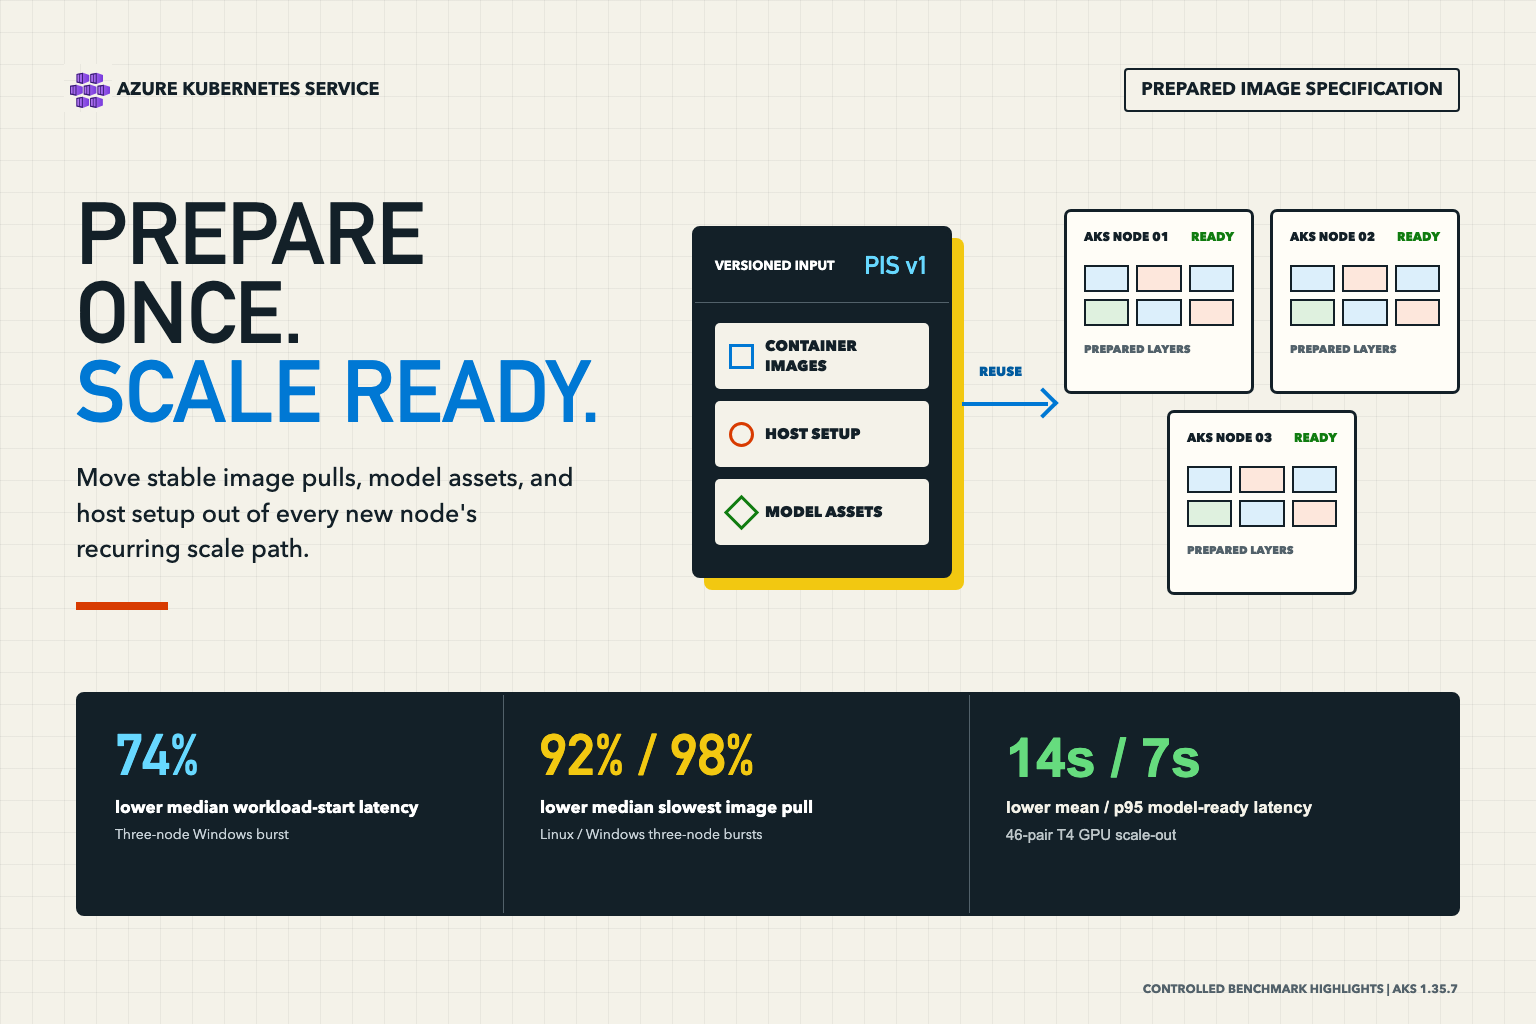
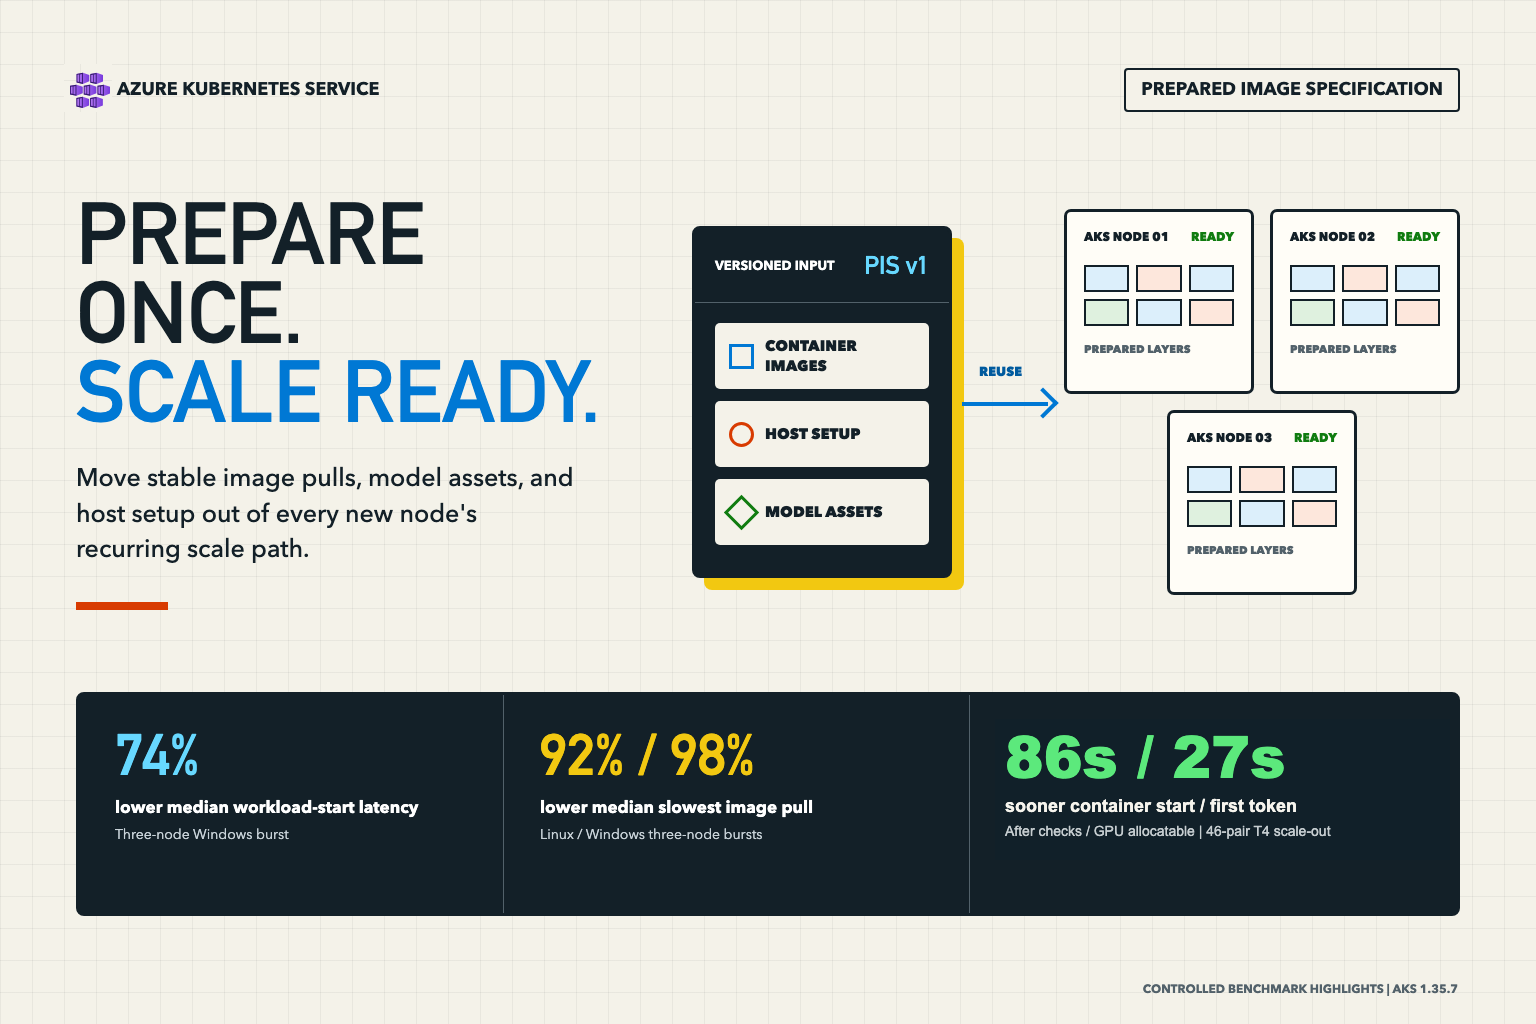
docs(blog): sharpen PIS benchmark highlights

Changed region(s): [[0.6562, 0.7188, 0.875, 0.8438]]

diff --git a/website/blog/2026-09-02-reducing-aks-cold-starts-with-prepared-image-specification/index.md b/website/blog/2026-09-02-reducing-aks-cold-starts-with-prepared-image-specification/index.md
@@ -47,33 +47,25 @@ The table separates the customer-visible outcomes. Reductions mean the PIS-backe
 
 | Scenario | Customer-visible outcome | Observed result |
 | --- | --- | ---: |
-| Add three Windows nodes | All three workloads started on distinct new nodes | **74% at median; 78% at p90** |
-| Add one Windows node | Workload started on the new node | **27% at median; 77% at p90** |
-| Add three Linux nodes | All three workloads started on distinct new nodes | **4% at median; 24% at p90** |
-| Large image pulls during a three-node burst | Slowest new-node pull completed | **92% at Linux median; 98% at Windows median** |
-| Install a pinned portable runtime | Runtime verified and workload started | **10% at Linux median; 34% at Windows median** |
-| Prepare a large dependency bundle | Dependencies verified and workload started | **20% at Linux median; 5% at Windows median** |
-| Serve a model on a T4 GPU node | Model healthy and first token returned | **14 seconds sooner on average for both; at p95, 503 vs. 510 seconds to model ready and 537 vs. 543 seconds to first token (PIS vs. non-PIS)** |
-| Reuse prepared assets after the GPU is allocatable | First token returned; container started after preparation checks | **27 seconds sooner to first token on average; container start was 86 seconds sooner on average** |
-| Apply a small Linux certificate authority (CA) and policy setup | Setup verified and workload started | **14% slower at median; tail latency favored PIS** |
+| Add three Windows nodes | All three workloads started on distinct new nodes | **74% at median**<br />**78% at p90** |
+| Add one Windows node | Workload started on the new node | **27% at median**<br />**77% at p90** |
+| Add three Linux nodes | All three workloads started on distinct new nodes | **4% at median**<br />**24% at p90** |
+| Large image pulls during a three-node burst | Slowest new-node pull completed | **92% at Linux median**<br />**98% at Windows median** |
+| Install a pinned portable runtime | Runtime verified and workload started | **10% at Linux median**<br />**34% at Windows median** |
+| Prepare a large dependency bundle | Dependencies verified and workload started | **20% at Linux median**<br />**5% at Windows median** |
+| Serve a model on a T4 GPU node | Model healthy and first token returned | **14 seconds sooner on average to model ready and first token**<br />**At p95: 503 vs. 510 seconds to model ready**<br />**At p95: 537 vs. 543 seconds to first token**<br />(PIS vs. non-PIS) |
+| Reuse prepared assets after the GPU is allocatable | First token returned<br />Container started after preparation checks | **27 seconds sooner to first token on average**<br />**86 seconds sooner to container start on average** |
+| Apply a small Linux certificate authority (CA) and policy setup | Setup verified and workload started | **14% slower at median**<br />**Tail latency favored PIS** |
 
 ### How to read these results
 
-We compared standard and PIS-backed pools with the same VM size, AKS node image, networking, pinned artifacts, and workload. Image-caching tests used 100 rounds per arm, customization scenarios used 10 same-round pairs per reported cell, and the GPU scenario used 46 same-round pairs. Pilots and failed attempts were excluded from measured denominators.
+Each result compares matched standard and PIS-backed pools. The timer starts with the scale request and stops at the outcome in the table; PIS creation and initial pool setup are not included.
 
-Each timer started with the scale request and stopped at the customer-visible outcome in the table. PIS creation and initial prepared-pool setup were separate release-time work and were not included.
+Image tests used 100 rounds per arm, customization tests used 10 same-round pairs per cell, and the GPU test used 46 pairs that concurrently scaled matched pools from one to two nodes. VM size, AKS node image, networking, artifacts, and workload were held constant.
 
-For the GPU A/B test, each pair concurrently scaled matched standard and PIS pools from one to two nodes. The end-to-end timer covered GPU VM provisioning, node bootstrapping and registration, managed driver readiness, image availability, model download or prepared-asset verification, model loading, health, and first token. The standard node downloaded and hash-verified the model and pulled the pinned image if absent; the PIS-backed node verified the same preloaded model and used the preloaded pinned image.
+The GPU timer includes VM provisioning, node registration, managed driver readiness, model loading, health, and first token. PIS reached GPU allocatable 13 seconds later on average, but then returned the first token 27 seconds sooner. Once preparation checks finished, its preloaded image started the container 86 seconds sooner: 11 seconds with PIS versus 97 seconds without it.
 
-The image and customization tests ran in East US 2, and the GPU test ran in West US 3. All used AKS 1.35.7. The scenarios used one VM size per operating system and one T4 GPU size with one quantized model. Treat tail results from the 10-pair customization tests as directional, and treat all benchmark results as observations rather than production service-level objectives.
-
-These tests did not measure bill savings, production traffic, autoscaler decision time, cross-region variation, steady-state inference throughput, GPU node upgrades, or long-lived node drift.
-
-Three details help put the numbers in context:
-
-- The image-pull and GPU rows are not directly comparable. One isolates the slowest image pull; the other includes every stage from VM provisioning to serving inference. In the GPU run, the PIS arm reached GPU allocatable 13 seconds later on average, which offset part of its downstream gain.
-- After the GPU was allocatable, PIS returned the first token 27 seconds sooner on average. After preparation checks finished, the preloaded image started its container 86 seconds sooner on average: 11 seconds with PIS versus 97 seconds without it.
-- Preparation needs to remove material work. The small Linux CA-and-policy setup shows that baking a task is not automatically faster.
+These are controlled observations, not service-level objectives. The 10-pair tail results are directional, and the tests did not measure cost savings, production traffic, autoscaler decisions, cross-region variation, throughput, upgrades, or long-lived drift. PIS helps when the prepared work is material; the small Linux setup shows that baking a task is not automatically faster.
 
 ## When to use PIS
 
